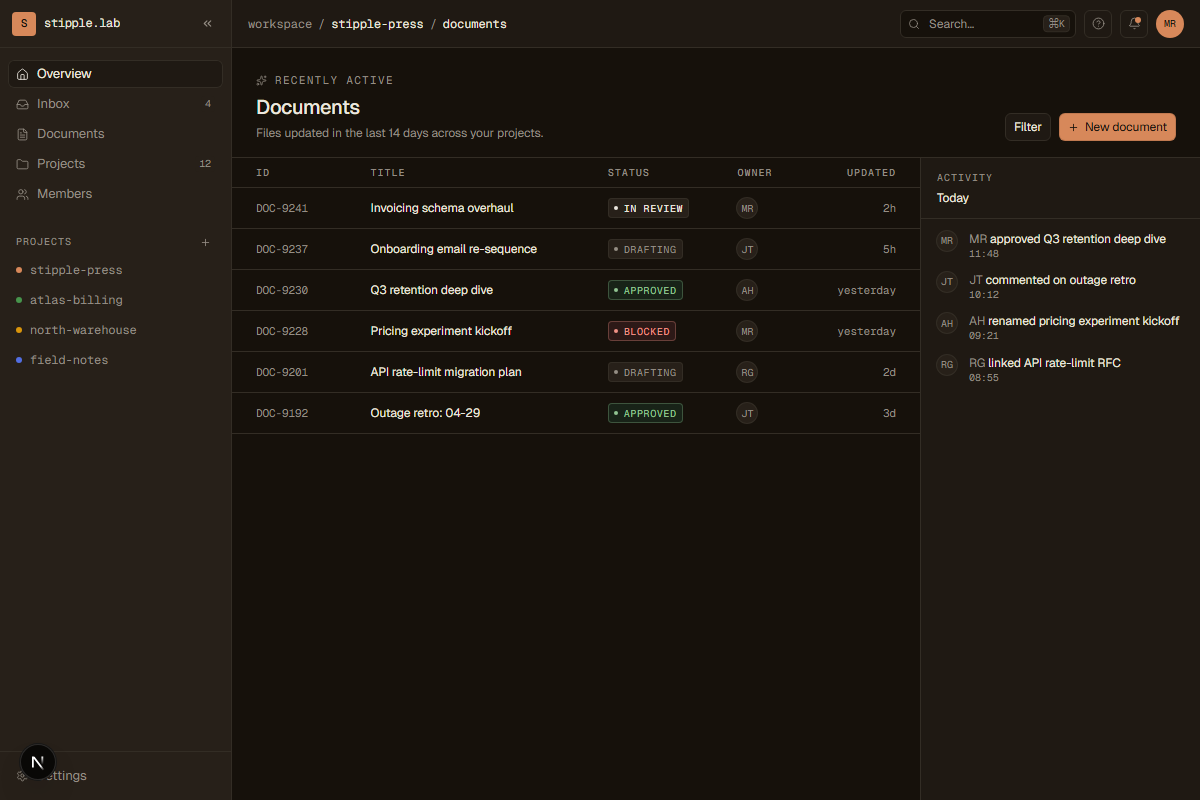
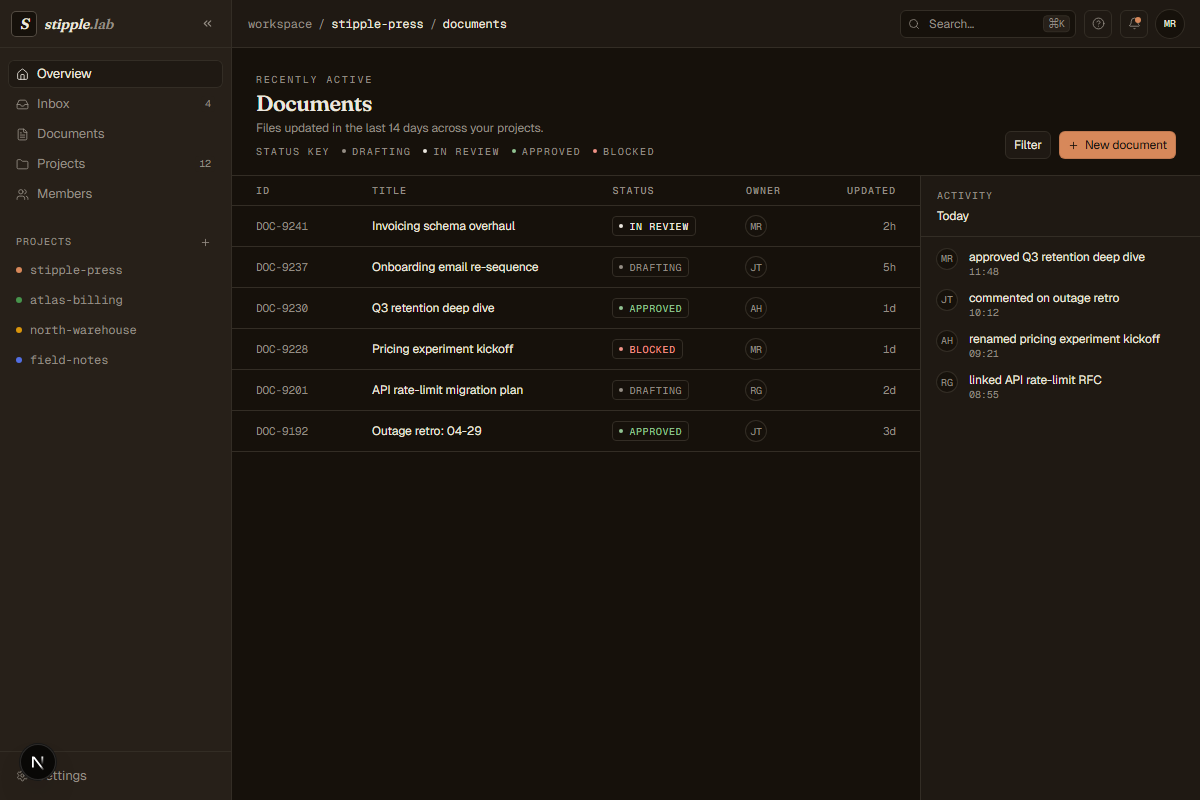
Refactor plate №1 app-shell: bad-day pass
The riskiest specimen plate (full-bleed app content forced into a
plate frame) gets a ground-up critique pass. The status badge layout
bug Vinson reported — wrapping to two lines at narrow widths because
the inline-flex span had no whitespace-nowrap and the column had no
min-width — is the visible symptom; the rest of the pass surfaces
patterns the gallery's own conventions already forbid:

- StatusBadge: whitespace-nowrap + shrink-0 (no more two-line wrap).
  Triple-encoding (ring inset + border + bg-tint + colored text) →
  single border + colored ink + colored dot.
- StatusLegend strip below the page header — single-source-of-truth
  STATUS_INK palette feeds both the badge and the legend, so colour →
  meaning is explicit ("STATUS KEY · ● DRAFTING · ● IN REVIEW · …").
- MEMBERS map adds title-tooltips on owner initials (table + activity
  rail), so MR/JT/AH/RG decode to full names on hover.
- Activity feed: drop the doubled "MR MR approved …" prefix; the
  avatar carries the subject, the text carries the verb.
- Topbar avatar: solid Federal Blue circle → ringed monogram, matching
  the rest of the system (triage-queue, bed-board, care-team-rail).
- Brand mark: walnut "S" tile + font-mono "stipple.lab" wordmark →
  Fraunces italic "S" in a ringed badge + Fraunces italic wordmark.
  Display typeface in display role.
- Sparkles icon for "Recently active" — gone. The locked rule is "no
  AI-generic aesthetics" and a Sparkles icon for a section header is
[…]

diff --git a/components/showcase/layouts/app-shell.tsx b/components/showcase/layouts/app-shell.tsx
@@ -13,7 +13,6 @@ import {
   Plus,
   Search,
   Settings,
-  Sparkles,
   Users,
 } from "lucide-react";
 import { cn } from "@/lib/cn";
@@ -33,14 +32,32 @@ const PROJECTS = [
   { name: "field-notes", color: "oklch(58% 0.18 270)" },
 ];
 
-const ROWS = [
+type StatusKey = "In review" | "Drafting" | "Approved" | "Blocked";
+
+const MEMBERS: Record<string, string> = {
+  MR: "Mara Reyes",
+  JT: "Jules Tanaka",
+  AH: "Amir Haddad",
+  RG: "Rosa Garcia",
+};
+
+const ROWS: { id: string; title: string; status: StatusKey; owner: keyof typeof MEMBERS; updated: string }[] = [
   { id: "DOC-9241", title: "Invoicing schema overhaul", status: "In review", owner: "MR", updated: "2h" },
   { id: "DOC-9237", title: "Onboarding email re-sequence", status: "Drafting", owner: "JT", updated: "5h" },
-  { id: "DOC-9230", title: "Q3 retention deep dive", status: "Approved", owner: "AH", updated: "yesterday" },
-  { id: "DOC-9228", title: "Pricing experiment kickoff", status: "Blocked", owner: "MR", updated: "yesterday" },
+  { id: "DOC-9230", title: "Q3 retention deep dive", status: "Approved", owner: "AH", updated: "1d" },
+  { id: "DOC-9228", title: "Pricing experiment kickoff", status: "Blocked", owner: "MR", updated: "1d" },
   { id: "DOC-9201", title: "API rate-limit migration plan", status: "Drafting", owner: "RG", updated: "2d" },
   { id: "DOC-9192", title: "Outage retro: 04-29", status: "Approved", owner: "JT", updated: "3d" },
 ];
+
+/** Status palette — single source of truth for the badge AND the legend strip. */
+const STATUS_INK: Record<StatusKey, string> = {
+  Drafting: "var(--color-text-muted)",
+  "In review": "var(--color-text)",
+  Approved: "color-mix(in oklch, var(--color-success) 70%, var(--color-text))",
+  Blocked: "color-mix(in oklch, var(--color-danger) 70%, var(--color-text))",
+};
+const STATUS_KEYS: StatusKey[] = ["Drafting", "In review", "Approved", "Blocked"];
 
 export default function AppShell() {
   const [collapsed, setCollapsed] = useState(false);
@@ -55,14 +72,25 @@ export default function AppShell() {
         )}
       >
         <div className="flex h-12 items-center gap-2 border-b border-[var(--color-border)] px-3">
-          <div
+          <span
             aria-hidden
-            className="grid h-6 w-6 place-items-center rounded-[var(--radius-xs)] bg-[var(--color-accent)] font-mono text-[11px] font-medium text-[var(--color-accent-fg)]"
+            className="grid h-6 w-6 place-items-center rounded-[var(--radius-xs)] bg-[var(--color-bg)] ring-1 ring-[var(--color-border-strong)]"
           >
-            S
-          </div>
+            <span
+              className="font-display text-[15px] italic leading-none text-[var(--color-text)]"
+              style={{ fontVariationSettings: '"opsz" 24, "SOFT" 30' }}
+            >
+              S
+            </span>
+          </span>
           {!collapsed && (
-            <span className="font-mono text-[12px] tracking-tight">stipple.lab</span>
+            <span
+              className="font-display text-[14px] italic leading-none text-[var(--color-text)]"
+              style={{ fontVariationSettings: '"opsz" 24, "SOFT" 30' }}
+            >
+              stipple
+              <span className="text-[var(--color-text-muted)]">.lab</span>
+            </span>
           )}
           <button
             type="button"
@@ -193,8 +221,8 @@ export default function AppShell() {
               />
             </button>
             <span
-              aria-hidden
-              className="grid h-7 w-7 place-items-center rounded-full bg-[var(--color-accent)] font-mono text-[10px] text-[var(--color-accent-fg)]"
+              title={MEMBERS.MR}
+              className="grid h-7 w-7 place-items-center rounded-full bg-[var(--color-bg)] font-mono text-[10px] text-[var(--color-text)] ring-1 ring-[var(--color-border)]"
             >
               MR
             </span>
@@ -204,19 +232,22 @@ export default function AppShell() {
         {/* Content */}
         <div className="flex min-h-0 flex-1 flex-col overflow-hidden">
           <div className="flex items-end justify-between gap-4 border-b border-[var(--color-border)] px-6 pt-6 pb-4">
-            <div>
-              <div className="flex items-center gap-2 font-mono text-[11px] uppercase tracking-[0.12em] text-[var(--color-text-muted)]">
-                <Sparkles size={11} strokeWidth={1.6} />
-                <span>Recently active</span>
+            <div className="min-w-0">
+              <div className="font-mono text-[10px] uppercase tracking-[0.18em] text-[var(--color-text-muted)]">
+                Recently active
               </div>
-              <h1 className="mt-1 text-xl font-medium tracking-[-0.02em]">
+              <h1
+                className="mt-1 font-display text-[22px] leading-none tracking-[-0.02em] text-[var(--color-text)]"
+                style={{ fontVariationSettings: '"opsz" 36, "SOFT" 30' }}
+              >
                 Documents
               </h1>
-              <p className="mt-1 text-xs text-[var(--color-text-muted)]">
+              <p className="mt-1.5 text-xs text-[var(--color-text-muted)]">
                 Files updated in the last 14 days across your projects.
               </p>
+              <StatusLegend />
             </div>
-            <div className="flex items-center gap-2">
+            <div className="flex shrink-0 items-center gap-2">
               <button
                 type="button"
                 className="inline-flex h-7 items-center gap-1.5 rounded-[var(--radius-sm)] border border-[var(--color-border)] bg-[var(--color-surface)] px-2 text-xs text-[var(--color-text)] hover:border-[var(--color-border-strong)]"
@@ -259,9 +290,13 @@ export default function AppShell() {
                   {ROWS.map((r) => (
                     <tr
                       key={r.id}
-                      className="border-b border-[var(--color-border)] hover:bg-[var(--color-surface-2)]"
+                      className="group relative border-b border-[var(--color-border)] hover:bg-[var(--color-surface)]"
                     >
-                      <td className="px-6 py-2.5 font-mono text-[11px] text-[var(--color-text-muted)]">
+                      <td className="relative px-6 py-2.5 font-mono text-[11px] text-[var(--color-text-muted)]">
+                        <span
+                          aria-hidden
+                          className="absolute inset-y-0 left-0 w-[2px] bg-[var(--color-accent-2)] opacity-0 group-hover:opacity-100"
+                        />
                         {r.id}
                       </td>
                       <td className="px-6 py-2.5">
@@ -273,7 +308,10 @@ export default function AppShell() {
                         <StatusBadge status={r.status} />
                       </td>
                       <td className="px-4 py-2.5">
-                        <span className="grid h-5 w-5 place-items-center rounded-full bg-[var(--color-surface-2)] font-mono text-[10px] text-[var(--color-text-muted)] ring-1 ring-[var(--color-border)]">
+                        <span
+                          title={MEMBERS[r.owner]}
+                          className="grid h-5 w-5 place-items-center rounded-full bg-[var(--color-bg)] font-mono text-[10px] text-[var(--color-text-muted)] ring-1 ring-[var(--color-border)]"
+                        >
                           {r.owner}
                         </span>
                       </td>
@@ -301,14 +339,14 @@ export default function AppShell() {
                   ["RG", "linked API rate-limit RFC", "08:55"],
                 ].map(([who, what, when], i) => (
                   <li key={i} className="flex gap-3">
-                    <span className="grid h-5 w-5 shrink-0 place-items-center rounded-full bg-[var(--color-surface-2)] font-mono text-[10px] text-[var(--color-text-muted)] ring-1 ring-[var(--color-border)]">
+                    <span
+                      title={MEMBERS[who]}
+                      className="grid h-5 w-5 shrink-0 place-items-center rounded-full bg-[var(--color-bg)] font-mono text-[10px] text-[var(--color-text-muted)] ring-1 ring-[var(--color-border)]"
+                    >
                       {who}
                     </span>
                     <div className="min-w-0 flex-1">
-                      <div className="text-[var(--color-text)]">
-                        <span className="text-[var(--color-text-muted)]">{who} </span>
-                        {what}
-                      </div>
+                      <div className="text-[var(--color-text)]">{what}</div>
                       <div className="font-mono text-[10px] text-[var(--color-text-muted)]">
                         {when}
                       </div>
@@ -324,37 +362,41 @@ export default function AppShell() {
   );
 }
 
-function StatusBadge({ status }: { status: string }) {
-  const map: Record<string, { color: string; bg: string; ring: string }> = {
-    "In review": {
-      color: "var(--color-text)",
-      bg: "var(--color-surface-2)",
-      ring: "var(--color-border)",
-    },
-    Drafting: {
-      color: "var(--color-text-muted)",
-      bg: "var(--color-surface-2)",
-      ring: "var(--color-border)",
-    },
-    Approved: {
-      color: "color-mix(in oklch, var(--color-success) 70%, var(--color-text))",
-      bg: "color-mix(in oklch, var(--color-success) 12%, var(--color-bg))",
-      ring: "color-mix(in oklch, var(--color-success) 30%, var(--color-border))",
-    },
-    Blocked: {
-      color: "color-mix(in oklch, var(--color-danger) 70%, var(--color-text))",
-      bg: "color-mix(in oklch, var(--color-danger) 12%, var(--color-bg))",
-      ring: "color-mix(in oklch, var(--color-danger) 30%, var(--color-border))",
-    },
-  };
-  const t = map[status] ?? map.Drafting;
+function StatusBadge({ status }: { status: StatusKey }) {
+  const ink = STATUS_INK[status];
   return (
     <span
-      className="inline-flex h-5 items-center gap-1.5 rounded-[var(--radius-xs)] px-1.5 font-mono text-[10px] uppercase tracking-[0.06em] ring-1"
-      style={{ color: t.color, background: t.bg, boxShadow: `inset 0 0 0 1px ${t.ring}` }}
+      className="inline-flex h-5 shrink-0 items-center gap-1.5 whitespace-nowrap rounded-[var(--radius-xs)] border border-[var(--color-border)] bg-[var(--color-bg)] px-1.5 font-mono text-[10px] uppercase tracking-[0.06em]"
+      style={{ color: ink }}
     >
-      <span aria-hidden className="h-1 w-1 rounded-full" style={{ background: t.color }} />
+      <span aria-hidden className="h-1 w-1 rounded-full" style={{ background: ink }} />
       {status}
     </span>
+  );
+}
+
+/**
+ * Legend for the status palette. The single source of truth for colour →
+ * meaning so a reader doesn't have to infer "what does the green dot mean."
+ */
+function StatusLegend() {
+  return (
+    <div
+      role="list"
+      aria-label="Status key"
+      className="mt-2 flex flex-wrap items-center gap-x-3 gap-y-1 font-mono text-[10px] uppercase tracking-[0.14em] text-[var(--color-text-muted)]"
+    >
+      <span aria-hidden>Status key</span>
+      {STATUS_KEYS.map((s) => (
+        <span key={s} role="listitem" className="inline-flex items-center gap-1.5 whitespace-nowrap">
+          <span
+            aria-hidden
+            className="h-1 w-1 rounded-full"
+            style={{ background: STATUS_INK[s] }}
+          />
+          {s}
+        </span>
+      ))}
+    </div>
   );
 }
